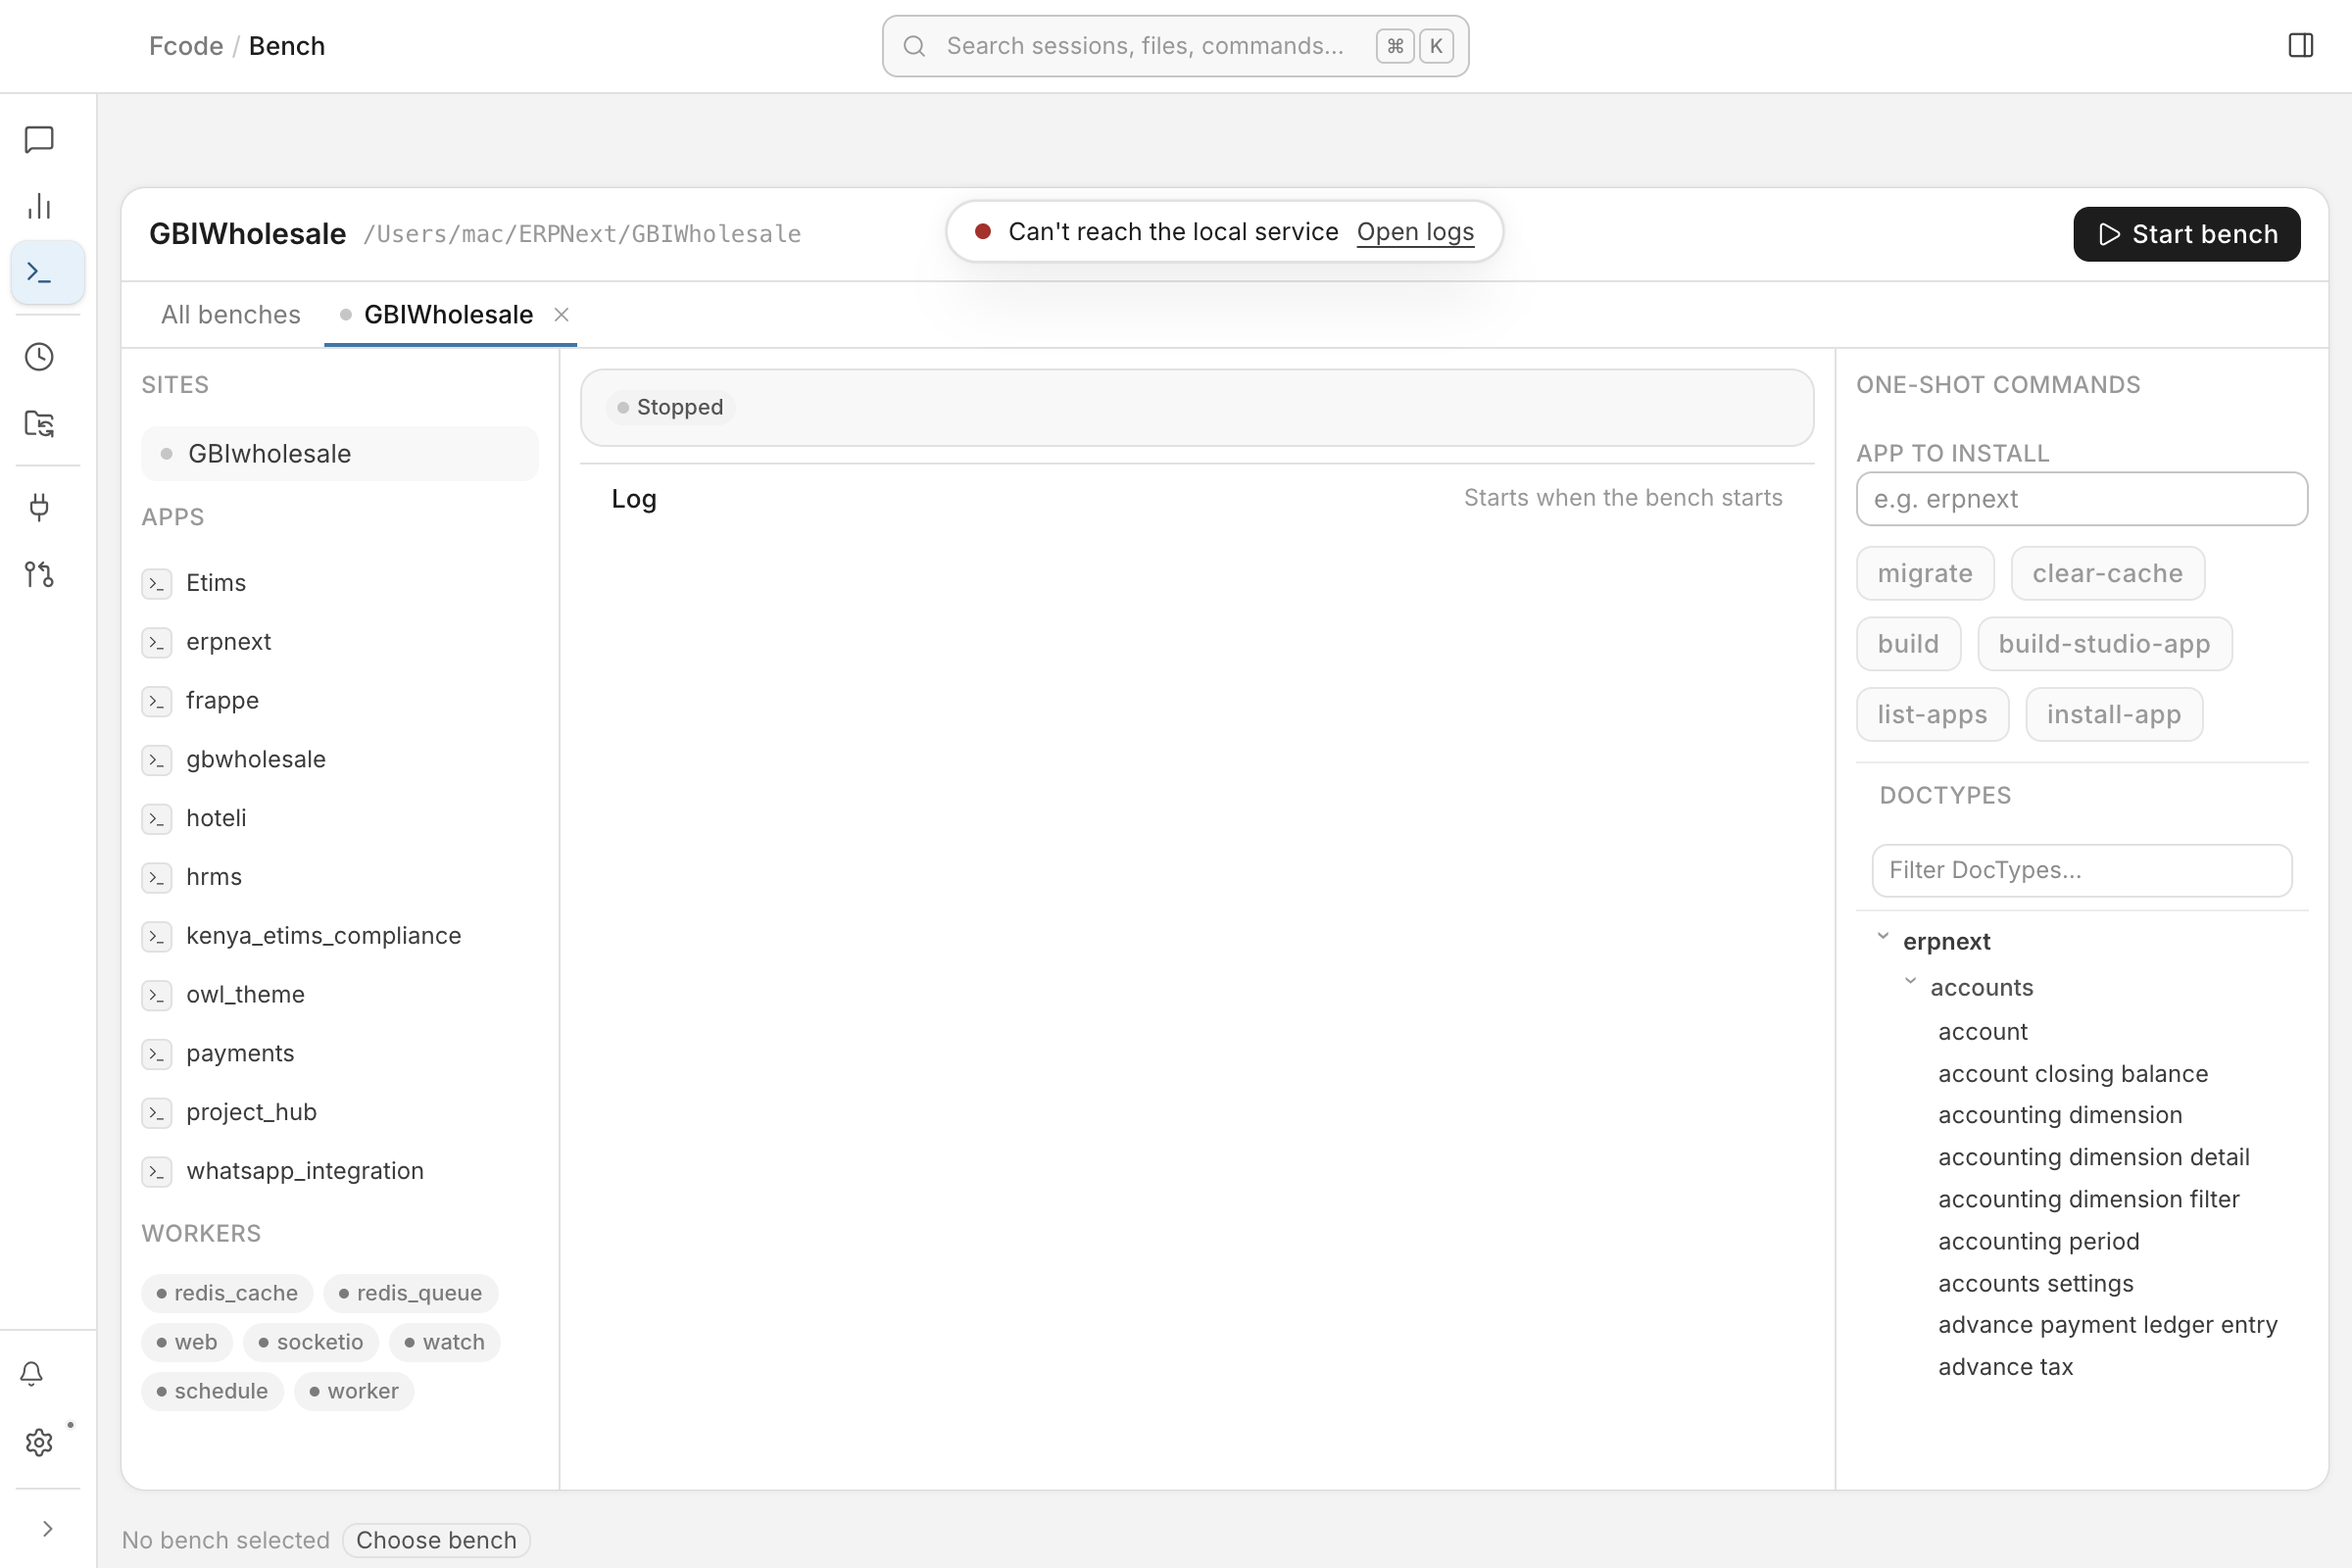
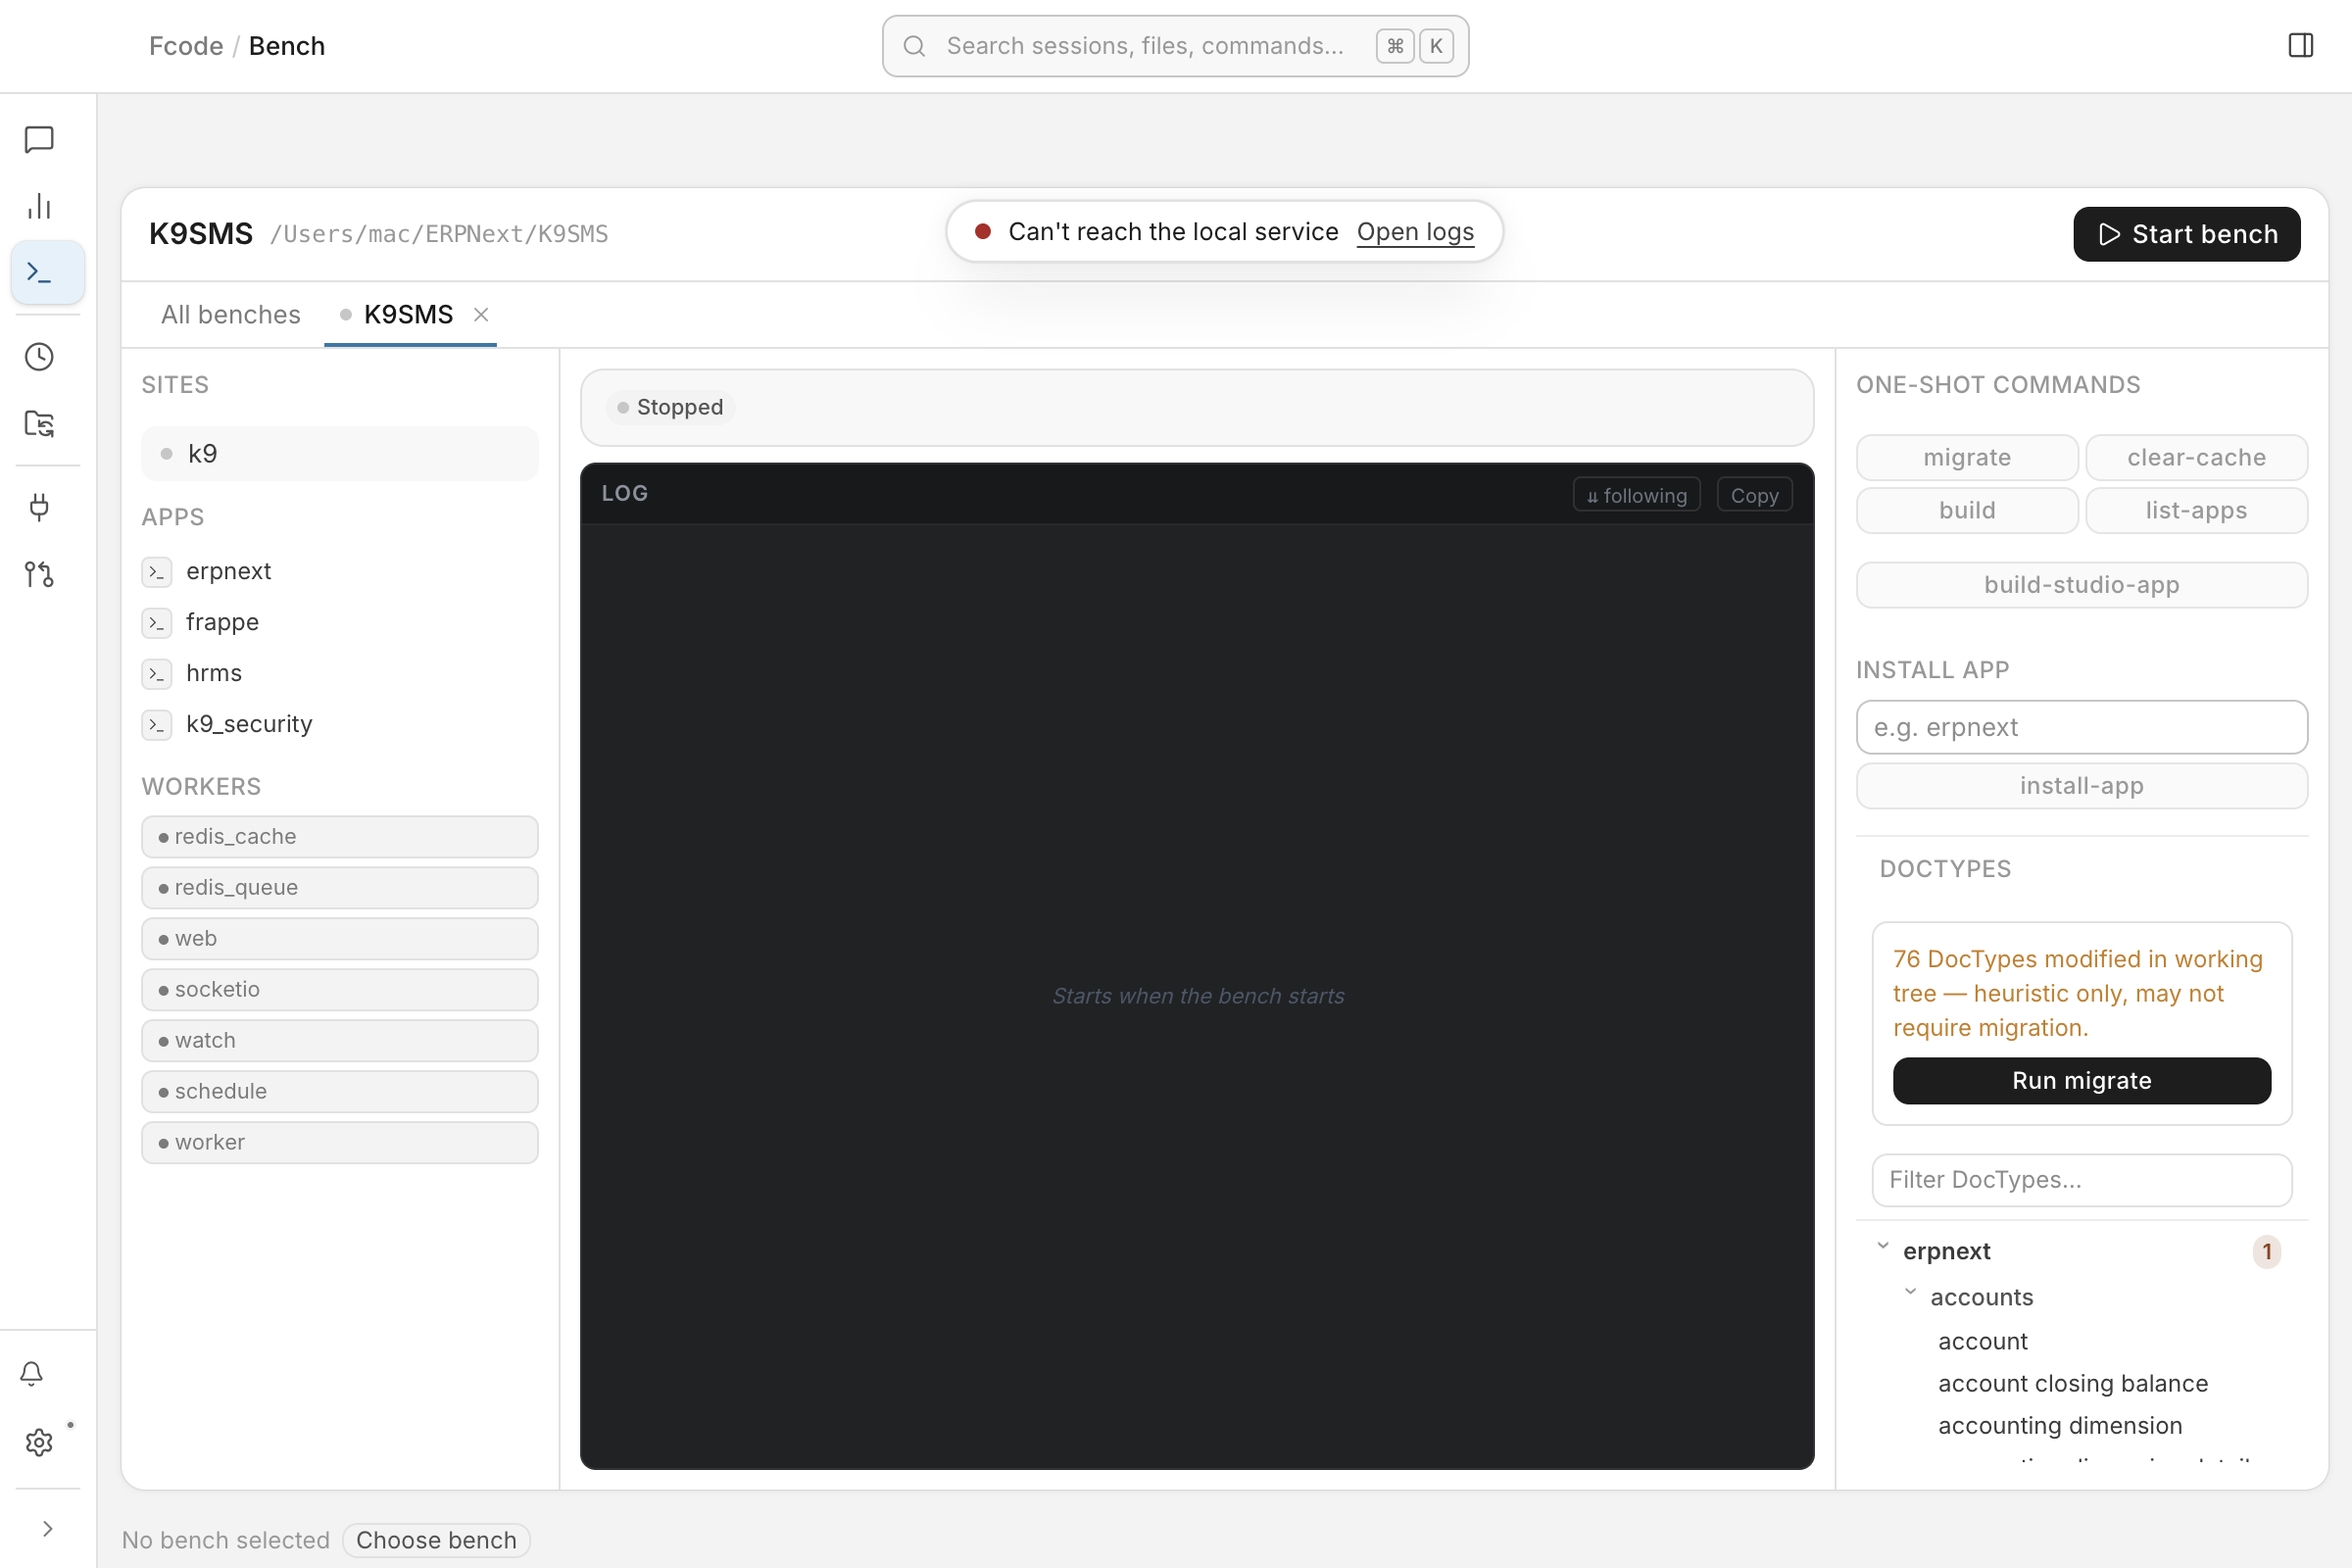
fix(bench): T14-r3 layout — rm grey band, statusbar bench-name-after-stop, doctypes default-collapsed, tab-count always

diff --git a/apps/desktop/src/components/code/DocTypeTree.tsx b/apps/desktop/src/components/code/DocTypeTree.tsx
@@ -217,6 +217,15 @@ export function DocTypeTree({
     };
   }, [selectedBenchPath]);
 
+  // Collapse all apps by default when new entries load (design: compact right column).
+  // User can expand any app interactively. Does NOT re-collapse on filter changes
+  // (entries only change when bench changes, filter changes only affect filteredGroups).
+  useEffect(() => {
+    if (entries.length === 0) return;
+    const allAppKeys = new Set(entries.map((e) => `app:${e.app}`));
+    setCollapsed(allAppKeys);
+  }, [entries]);
+
   const groups = groupDoctypes(entries);
   const totalDirty = entries.filter((e) => e.dirty).length;
   const lowerFilter = filter.toLowerCase();

diff --git a/apps/desktop/src/styles/workbench.css b/apps/desktop/src/styles/workbench.css
@@ -9,8 +9,8 @@
   min-width: 0;
   min-height: 0;
   height: 100%;
-  /* The transparent `.main-titlebar` drag band overlays the top. */
-  padding-top: var(--ds-toolbar-height);
+  /* Note: .main-titlebar drag band is transparent + pointer-events:none; it
+     overlays the island-hd region — no padding-top needed here. */
   gap: var(--d-gap); /* lane T11: canvas gap between sidebar and island */
   color: var(--ink-gray-8);
   font-size: var(--text-base);

diff --git a/apps/desktop/electron/main/bench/supervisor.ts b/apps/desktop/electron/main/bench/supervisor.ts
@@ -392,7 +392,8 @@ export class BenchSupervisor extends EventEmitter {
     }
     this.stopWatcher();
     this.status = "stopped";
-    this.activeBenchPath = null;
+    // Keep activeBenchPath so the status bar keeps showing the bench name after
+    // stop (WorkspaceBar shows "stopped" state). It is overwritten by start().
     this.activeSite = null;
     this.startedAt = null;
     this.emit("status", this.status);

diff --git a/apps/desktop/src/pages/BenchPage.tsx b/apps/desktop/src/pages/BenchPage.tsx
@@ -639,7 +639,7 @@ export function BenchPage() {
             onClick={showAll}
           >
             {t("bench.tabAll", "All benches")}
-            {!loading && !selectedBench && (
+            {!loading && (
               <span className="wb-badge wb-badge-gray">{benches.length}</span>
             )}
           </button>
